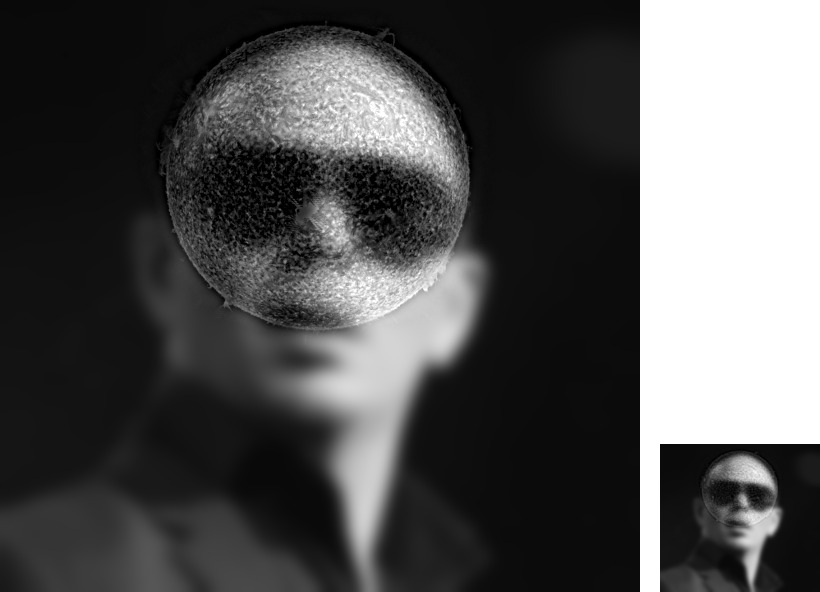
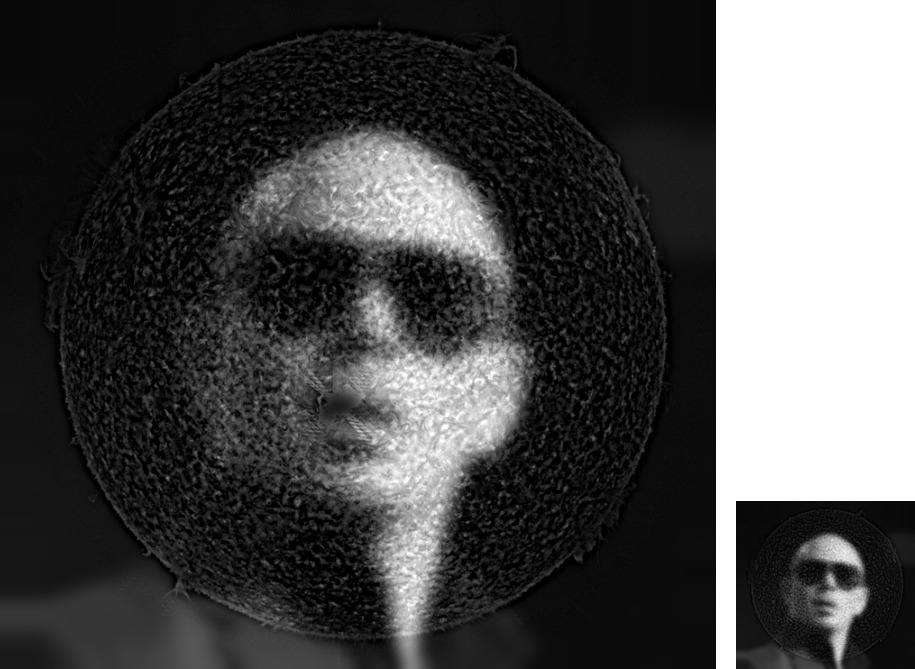
more updates to part 2.2

diff --git a/cs180/project2/index.html b/cs180/project2/index.html
@@ -467,13 +467,14 @@ def hybrid_image(im_high, im_low, sigma_high, sigma_low):
             scale and rotation of the two points). Clicking is not repeatable, so <code>align_images</code> was
             changed so it can also take the points directly. The points were picked by reading the coordinates
             off a copy of each photo with a grid drawn on it (the two eyes for faces, and the left and right
-            edges of his head and of the sun for Pitbull and the sun). The starter code pads with black while it recentres and
+            edges of his head for Pitbull, matched to points inside the sun). The starter code pads with black while it recentres and
             rotates, so an extra channel of ones is passed through the same alignment to mark which pixels
             are real, and then both images are cropped to a rectangle where both are real. The fox picture is
             a cut-out on white with its eyes very near the top, so its white background is extended in code
-            before aligning, otherwise most of the clown gets cropped off. The sun gets shrunk a lot to fit
-            Pitbull's head, so on its own it would crop him down to just his head. Its background is black, so
-            it is extended with black in code first, in the same way.
+            before aligning, otherwise most of the clown gets cropped off. For Pitbull, there is hardly any
+            room above his head in the photo for the rest of the sun, so his dark background is extended in code
+            by repeating the edge of the photo, and after aligning, both images are cropped to the sun (plus a
+            small margin), which cuts off most of his body.
         </p>
         <p>
             Both images are converted to greyscale before making the hybrid, like in the paper.
@@ -579,9 +580,10 @@ def hybrid_image(im_high, im_low, sigma_high, sigma_low):
 
         <h3>Sun + Pitbull</h3>
         <p>
-            Pitbull's bald head is about the same shape as the sun, so the two were aligned on the left and
-            right edges of his head and of the sun. Up close you see the grainy surface and round edge of the
-            sun, and from far away you see Pitbull in his sunglasses. The sun is used for the high frequencies
+            Pitbull's face is put inside the sun. The left and right edges of his head were aligned to points
+            half way out from the centre of the sun, so his head is half as wide as the sun, and slightly above
+            the centre, so his face ends up in the middle of the sun. Up close you see the grainy surface and
+            round edge of the sun, and from far away you see Pitbull in his sunglasses. The sun is used for the high frequencies
             since its surface is almost all fine texture, while Pitbull can be recognised from his big dark
             sunglasses and the shape of his head, which are still visible after a heavy blur.
         </p>
